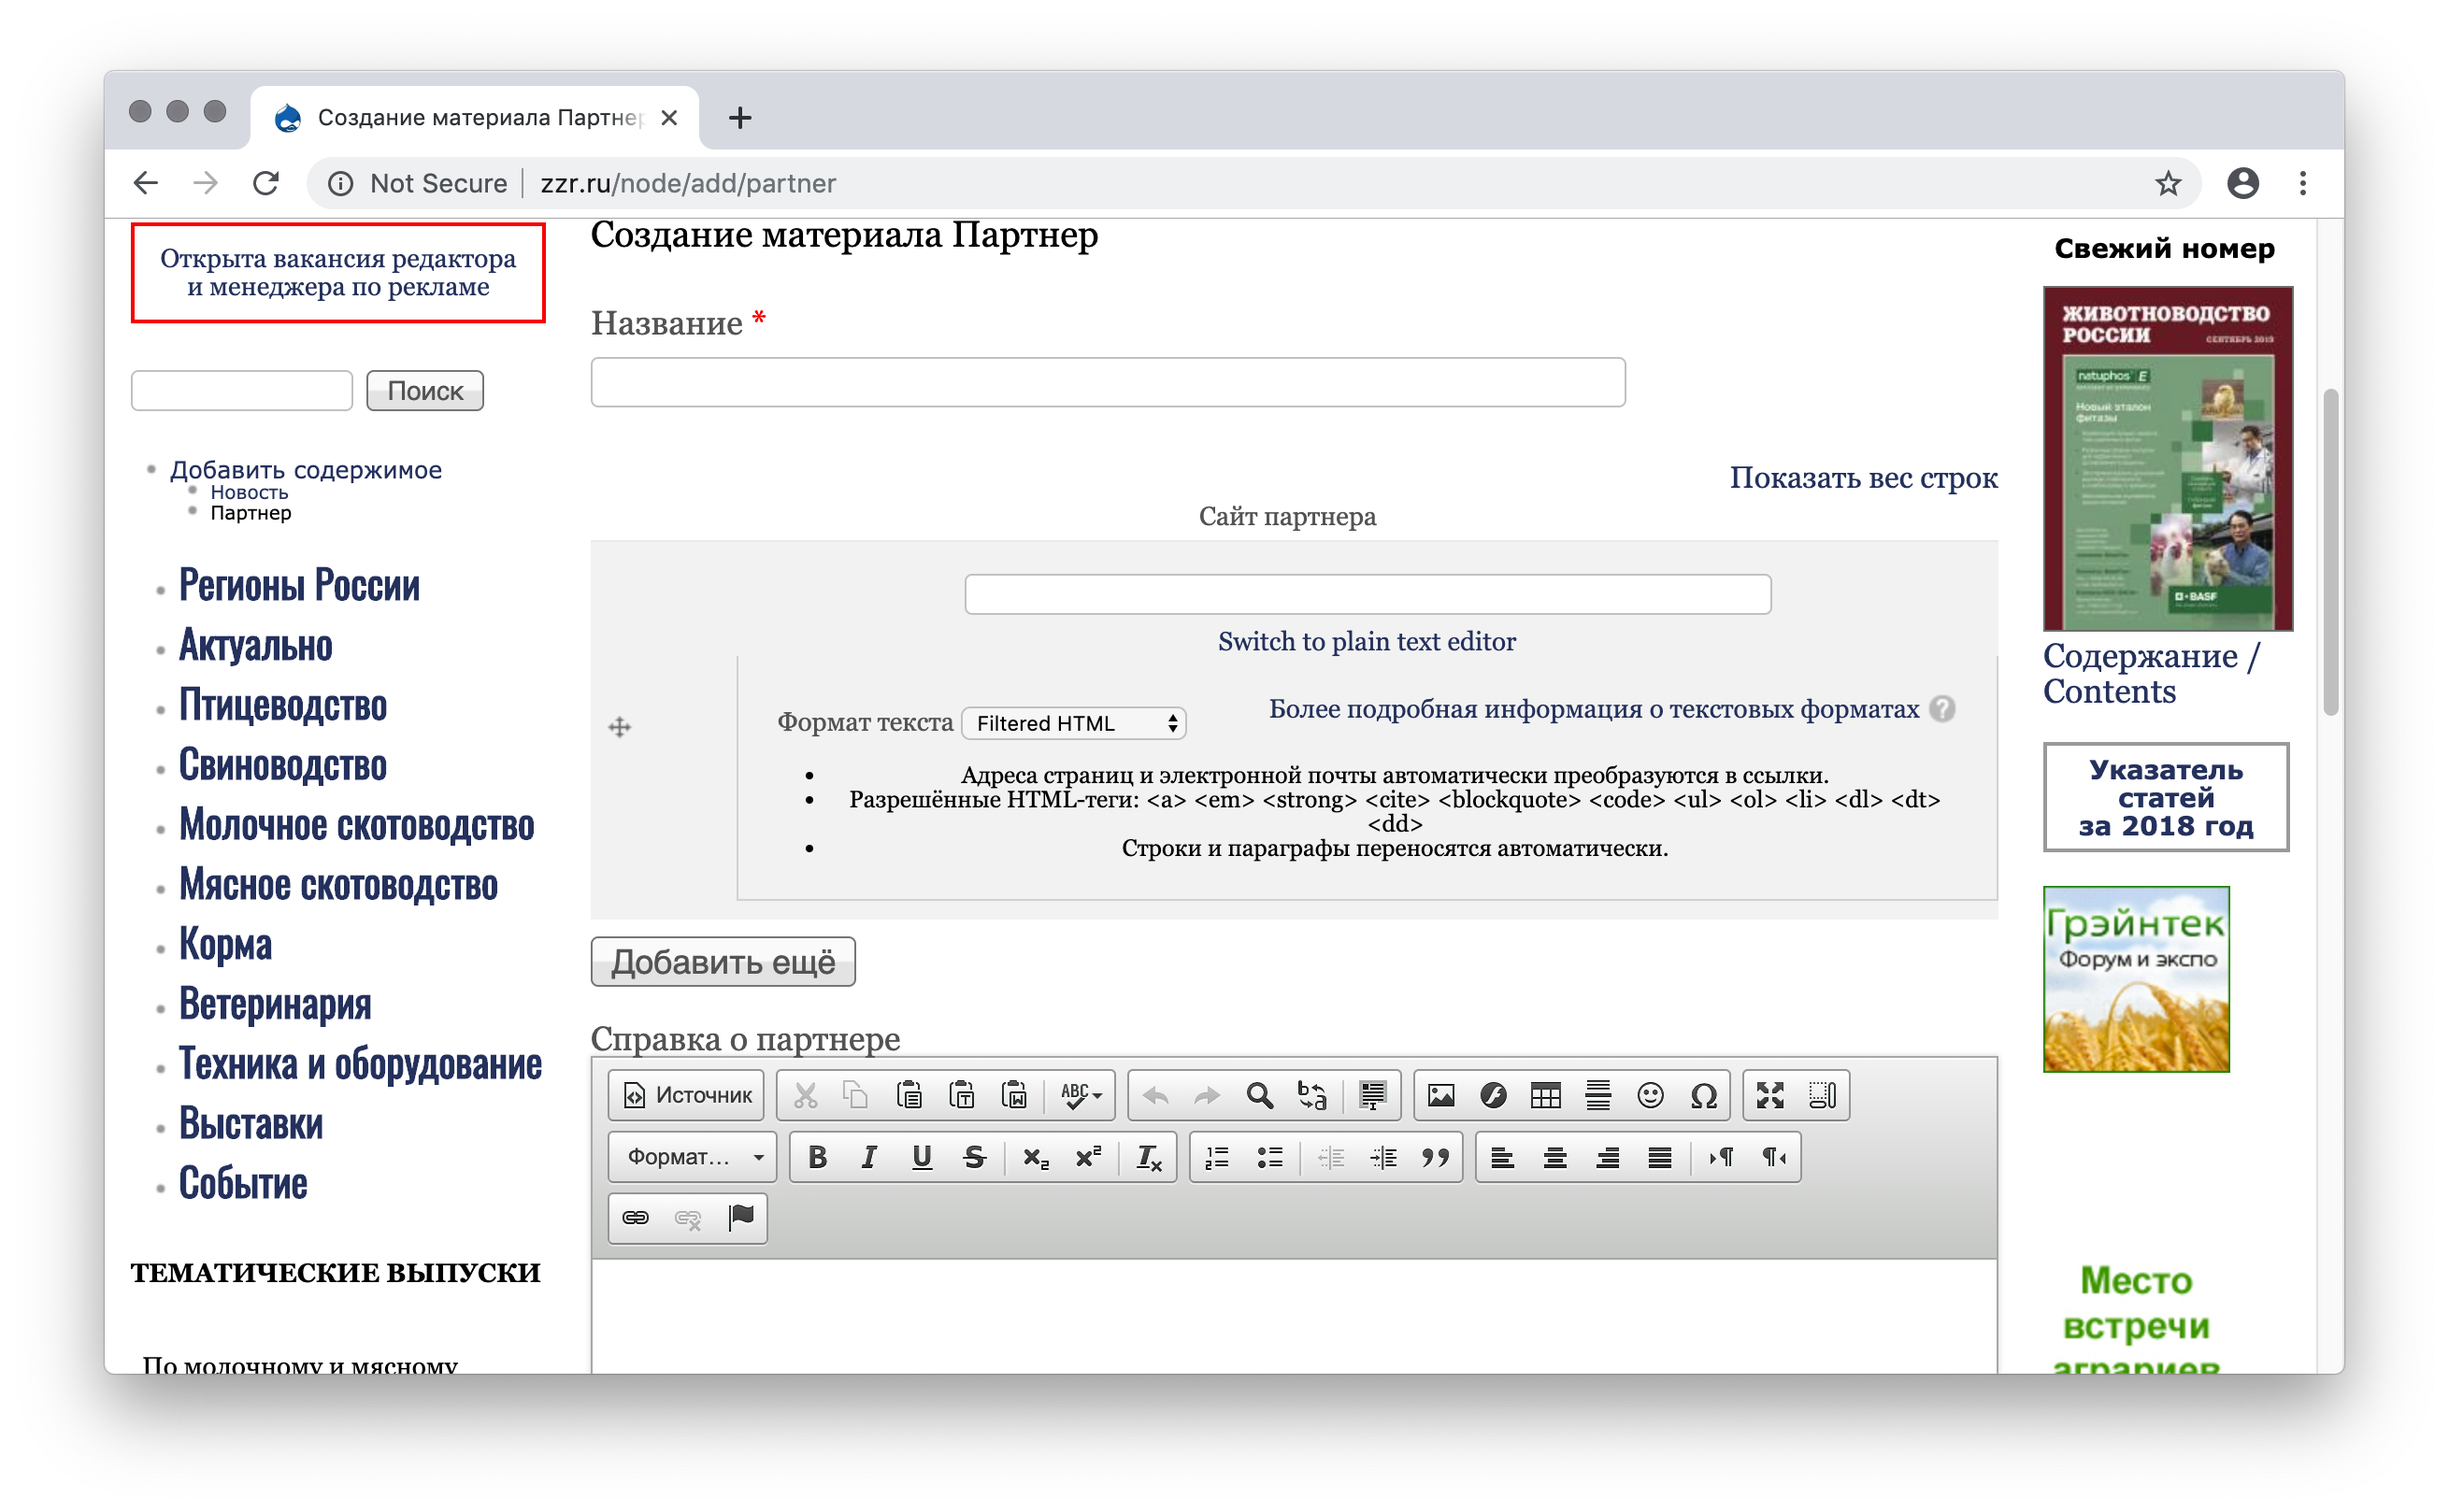
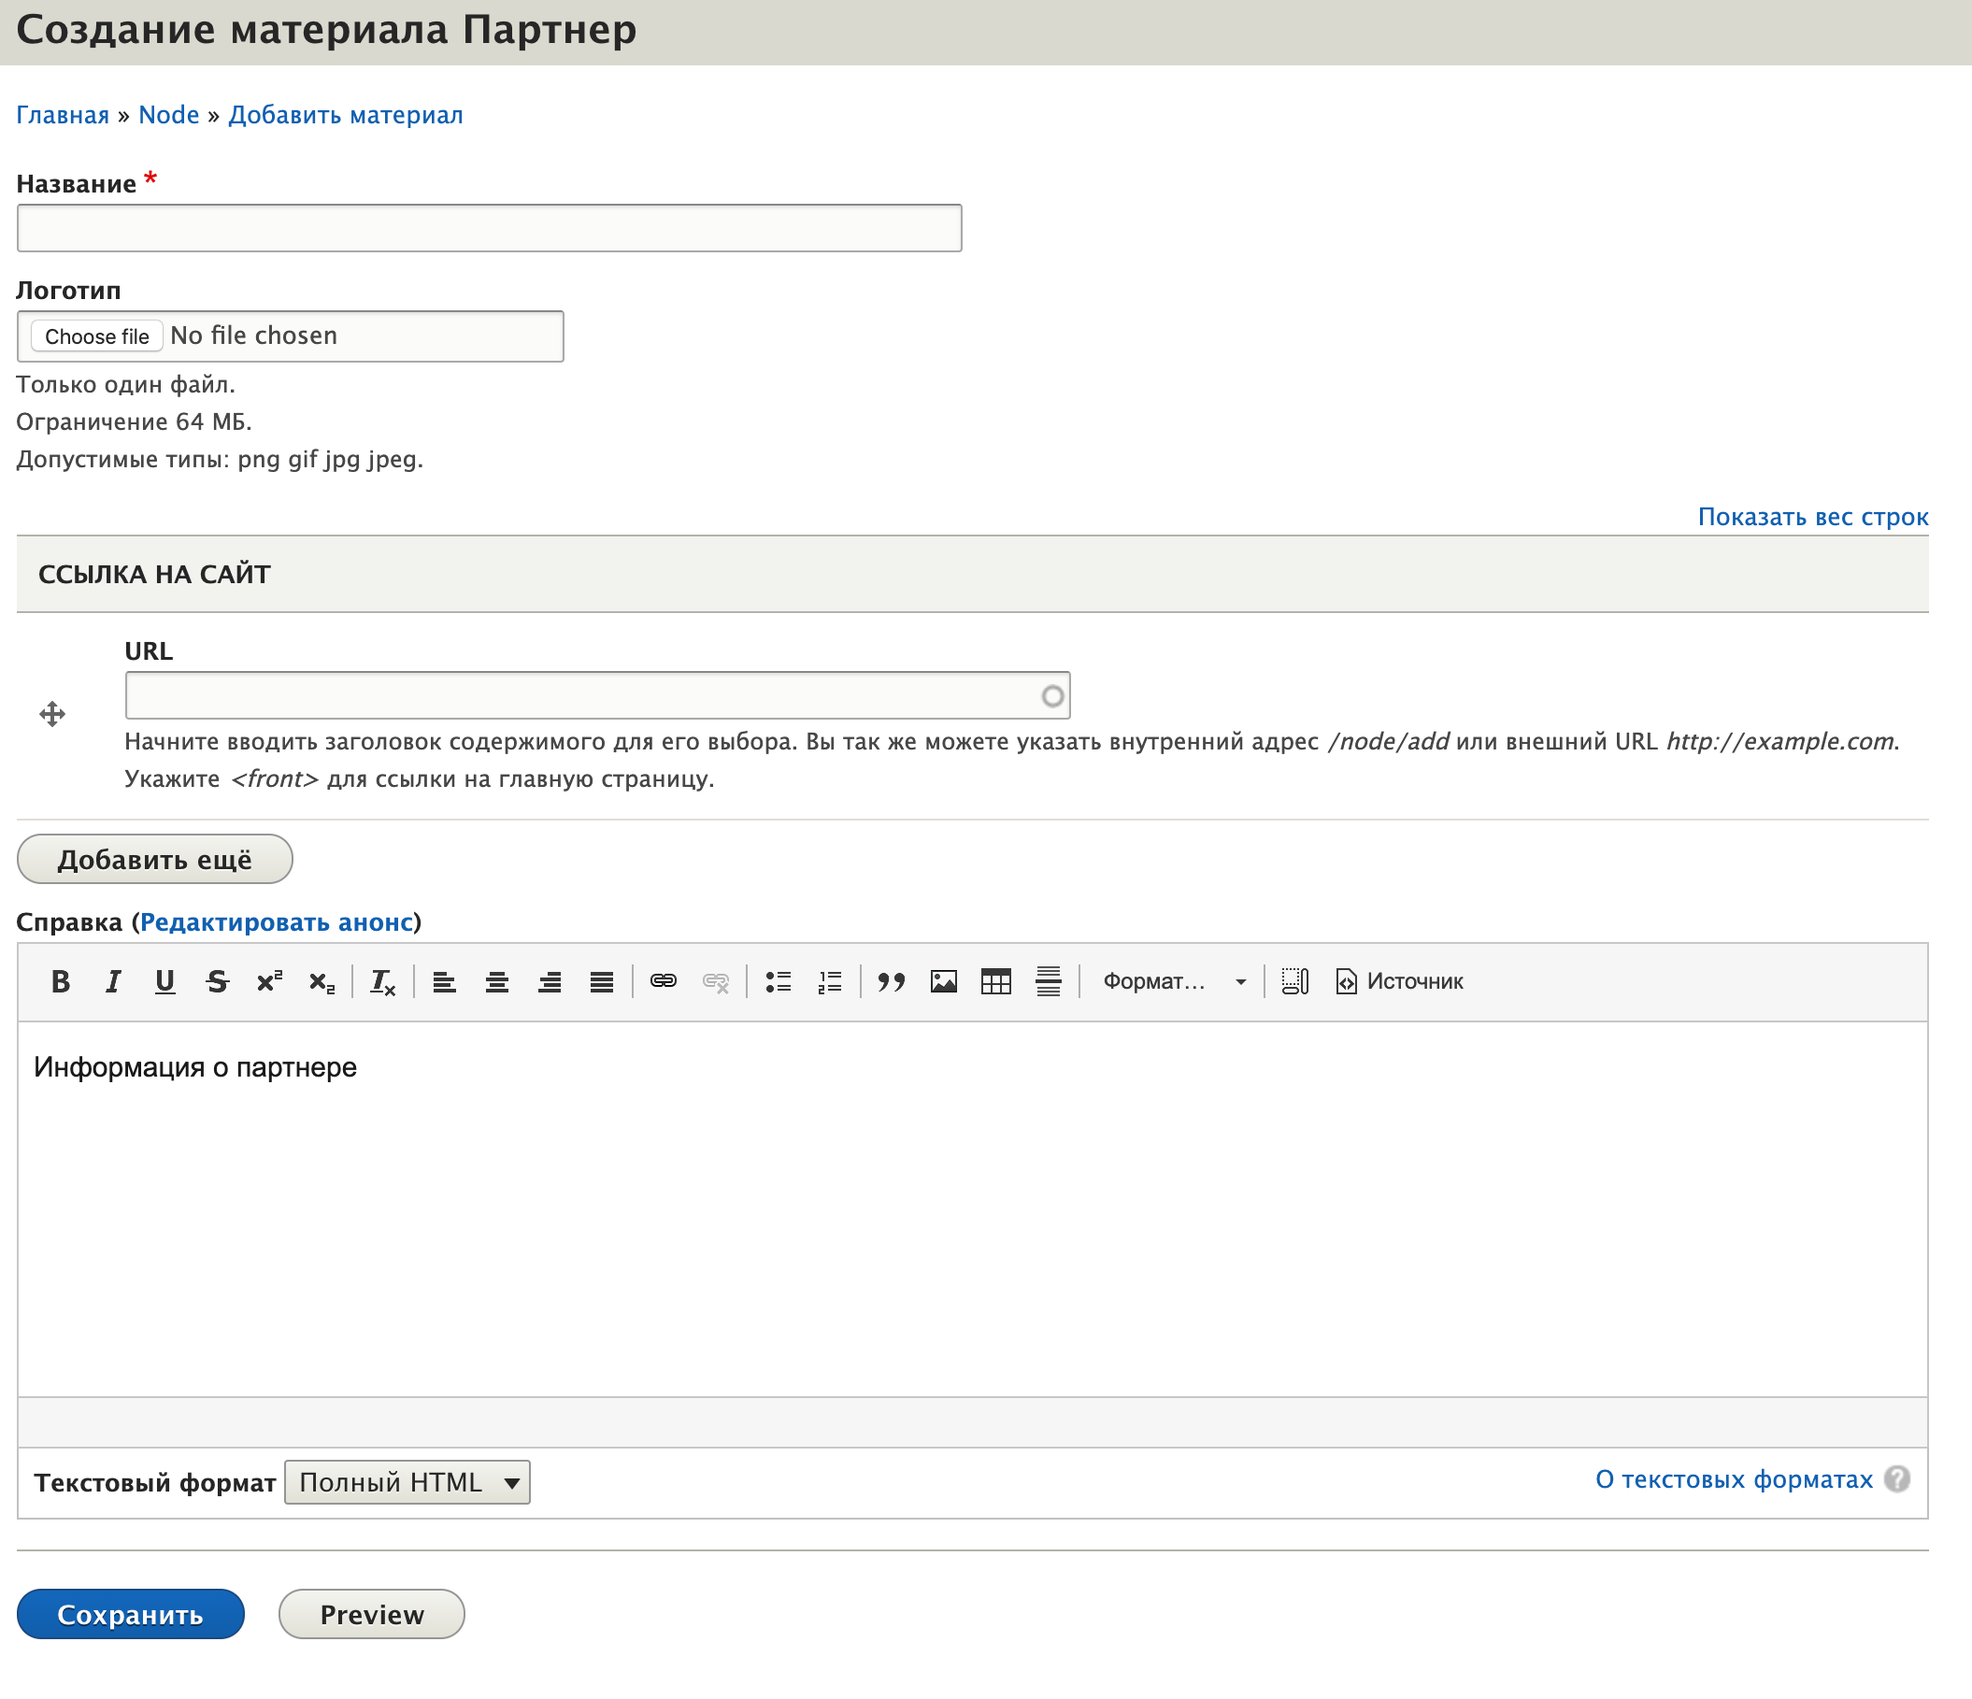
Обновить инструкцию по работе с парнерами

Changed region(s): [[0.0, 0.0, 1.0, 0.9889], [0.4929, 0.3399, 0.5545, 0.3708]]

diff --git a/content/docs/zzr/partner.md b/content/docs/zzr/partner.md
@@ -9,32 +9,34 @@ weight: 4
 
 1. [Авторизуйтесь](../auth) на сайте.
 
-1. Нажмите на ссылку `Добавить содержимое` в левой боковой колонке сайта. ![](../img/create_content_link.png)
+1. Нажмите на ссылку `Материалы -> Добавить матераил -> Партнер` в административном меню сверху.
+   ![](../img/create_partner_link.png)
 
-1. Выберите пункт `Партнер`. ![](../img/create_partner_link.png)
-
-1. Заполните поля (обязательные поля помечены звездочкой в окне добавления новости): ![](../img/partner_fields.png)
+1. Заполните поля (обязательные поля помечены звездочкой в окне добавления новости): 
+   ![](../img/partner_fields.png)
 
   - **Название**  
     Имя партнера на русском или английском языке. Важно один раз определиться с написанием партнера и использовать это написание при указании партнера новости или статьи. К примеру, названия **ЭФКО**, **ООО "ЭФКО"** и **EFCO** будут расценены сайтом как три разных партнера.
 
-  - **Сайт партнера**  
-    Ссылка на сайт партнера. Ссылок может быть несколько, для добавления ссылки нажмите кнопку `Добавить еще`.
-  
-  - **Справка о партнере**  
-    Краткая текстовая справка о партнере.
-  
   - **Логотип**  
     Форматы: `png` `gif` `jpg` `jpeg`  
     Размер изображения: от 100x100 до 500x500 пикселей  
     Размер файла: до 200 Кб    
 
+  - **Ссылка на сайт**  
+    Ссылка на сайт партнера. Обязательно должна начинаться с префикса `http://` Ссылок может быть несколько, для добавления нажмите кнопку `Добавить еще`.
+  
+  - **Справка**  
+    Краткая текстовая справка о партнере.
+  
     
-1. После заполнения полей нажмите кнопку `Сохранить`. ![](../img/partner_save.png)
+1. После заполнения полей нажмите кнопку `Сохранить`. ![](../img/save_content_button.png)
 
-1. Зайдите на [страницу со списком партнеров](http://zzr.ru/partners) и убедитесь, что партнер есть в списке. ![](../img/partner_list.png)
+1. Страница партнера на этом этапе создана, но не опубликована. Проверьте, правильно ли сверстан материал. Если что-то нужно исправить, нажмите кнопку `Редактировать` над заголовком, чтобы вернуться в режим редактирования.
+    ![](../img/partner_edit.png)
 
-1. Кликните на название партнера в списке и убедитесь, что информация отображается корректно, а по ссылке можно перейти на сайт партнера. ![](../img/partner_page.png)
+1. Если все устраивает, нажмите кнопку `Опубликовать` над заголовком.
+    ![](../img/partner_publish.png)
 
 
 ## Редактировать информацию о партнере
